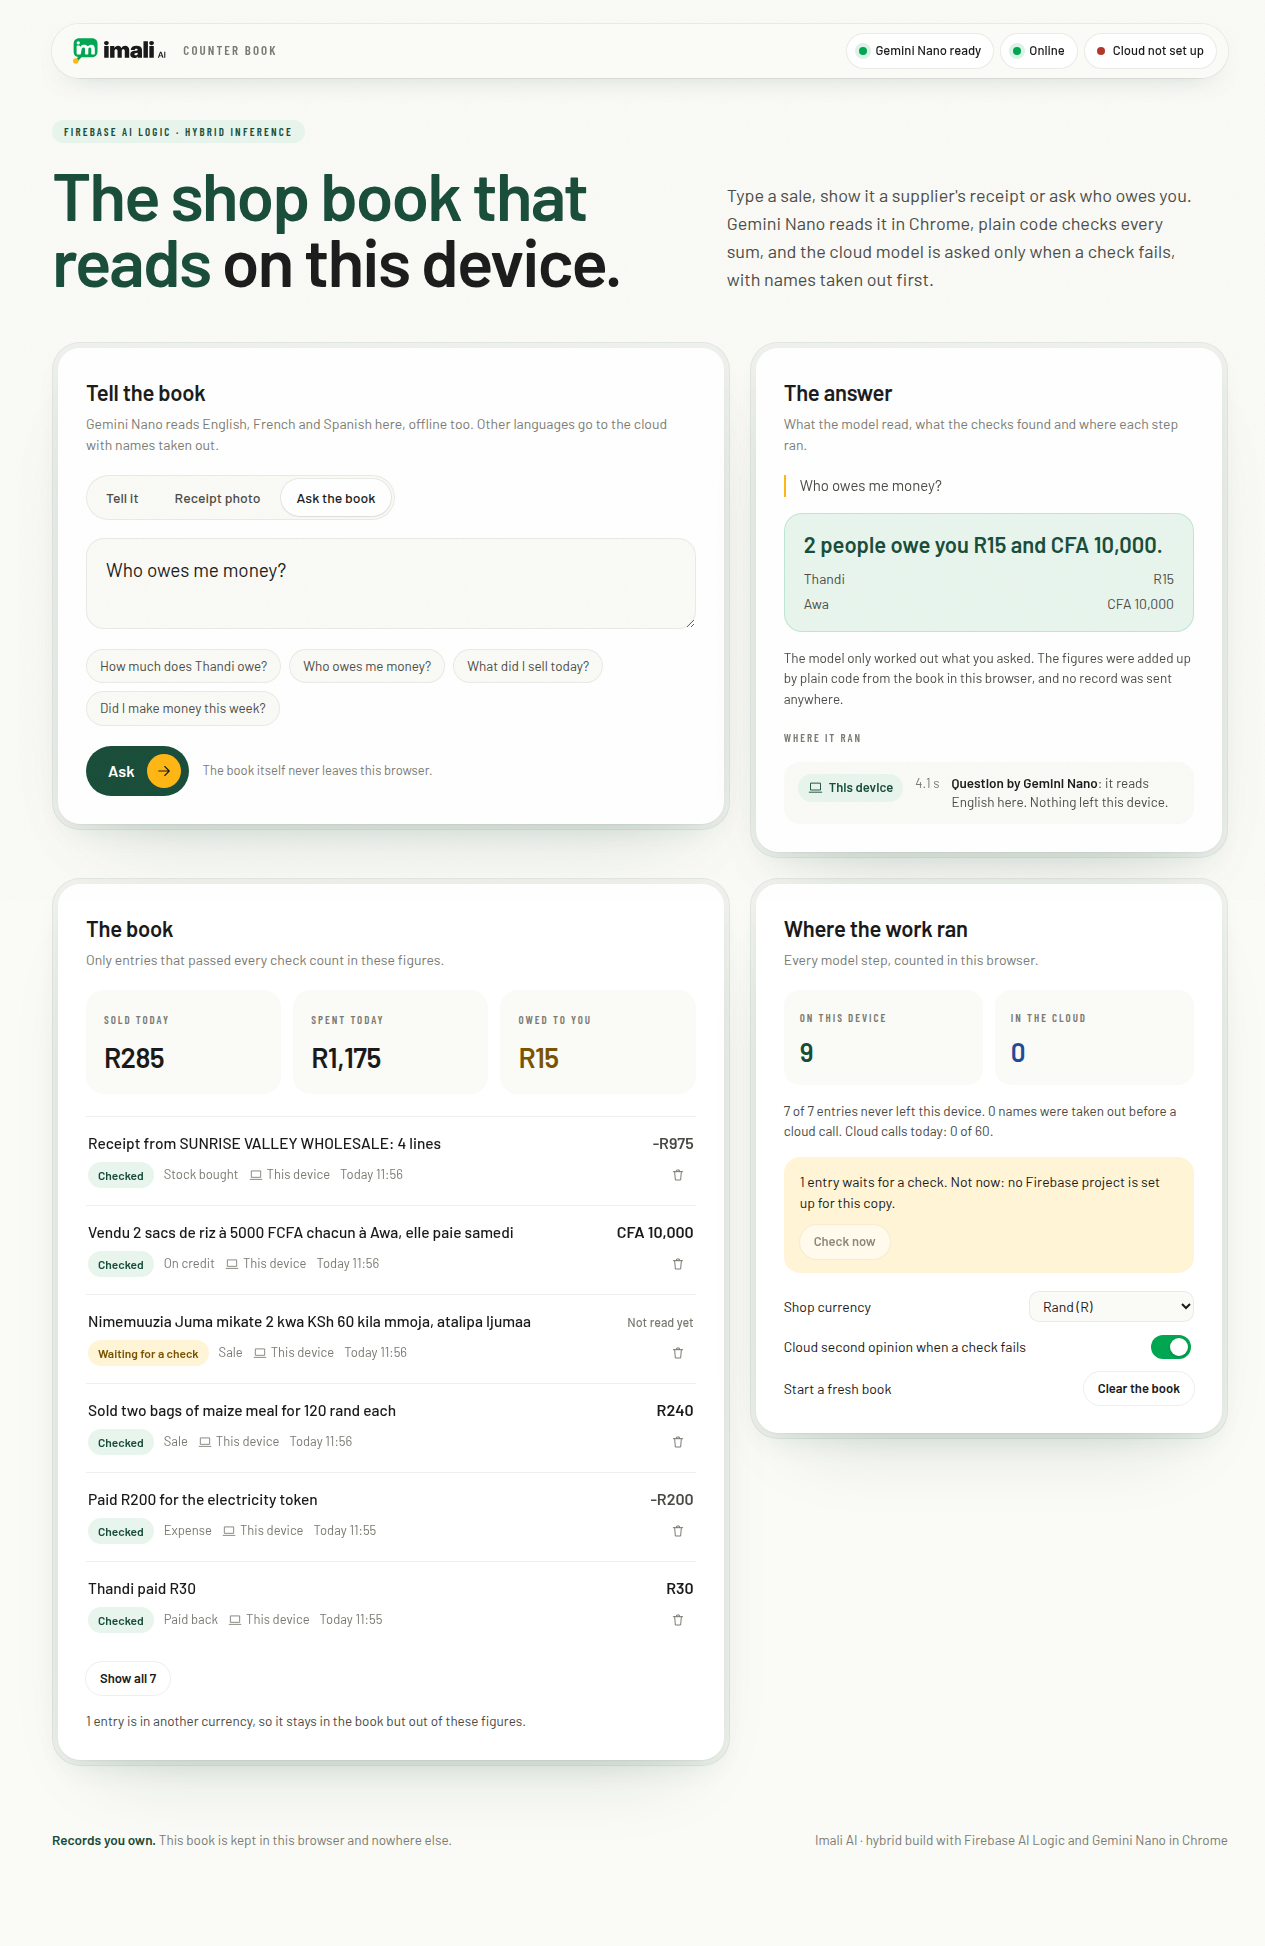
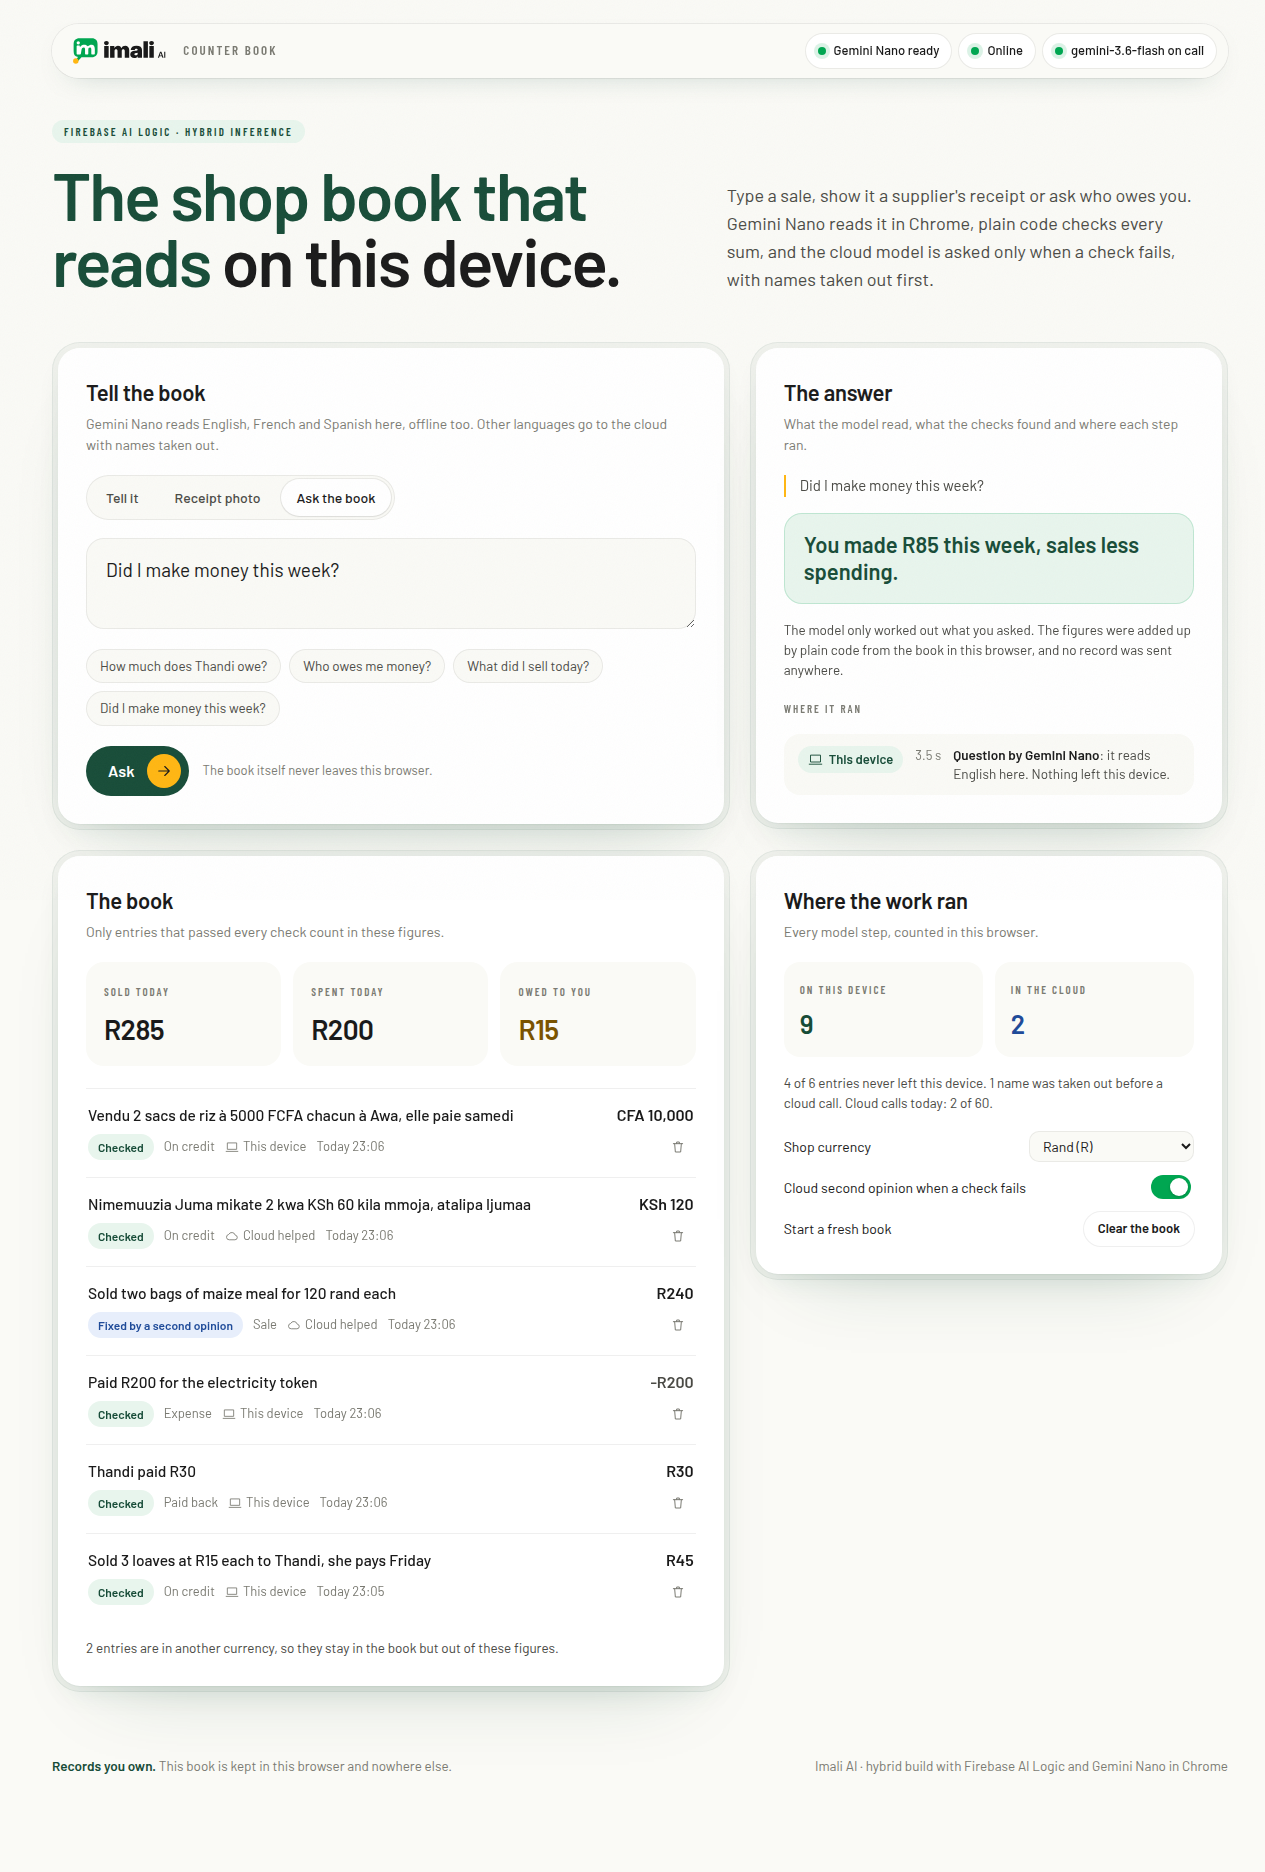
README: the hosted copy, its run and screenshots, and what was built in the contest period first
Links imali-ai-hybrid.web.app, adds the hosted run of 12 Nov 23:06 KST
with App Check tokens from reCAPTCHA Enterprise, swaps in screenshots of
the hosted copy (1280 and 390 px), moves the contest-period section up,
says the code (not the reused logo and fonts) was written from 12 Nov, and
ends on the Ebenworks stamp. Pre-show review sc-20261112-231704-fc50: PASS.

diff --git a/README.md b/README.md
@@ -1,16 +1,22 @@
 # Imali AI book: the shop book that reads on the device
 
-Imali AI runs sales, stock and books on WhatsApp for shop owners and merchants, along with their suppliers, their funders and groups of companies. This repository is a Chrome web app built for the #BuildHybridAI hackathon. It is a counter book that a shop owner writes in plain words. Gemini Nano reads each entry on the device through Firebase AI Logic, plain code checks every reading before it counts in the totals, and a cloud Gemini model is asked only when the device's reading fails a check. Customers' names are taken out before any words leave the device, and an entry made offline waits for the connection.
+Imali AI runs sales, stock and books on WhatsApp for shop owners and merchants, along with their suppliers, their funders and groups of companies. This repository is a Chrome web app built for the #BuildHybridAI hackathon. It is a counter book that a shop owner writes in plain words. Gemini Nano reads each entry on the device through Firebase AI Logic, plain code checks every reading before it counts in the totals, and a cloud Gemini model is asked when the device's reading fails a check, when Gemini Nano does not read the language, or when the device has no Nano. Customers' names are taken out before any words leave the device, and an entry made offline waits for the connection.
 
-This README is for the hackathon's judges and for developers who want to run the app. The first sections say what it does and why; the code names are in the Firebase table and the run instructions.
+This README is for the hackathon's judges and for developers who want to run the app.
 
-![The book after six entries, a receipt photo and one question](docs/screenshots/book-1280.png)
+Try it at [imali-ai-hybrid.web.app](https://imali-ai-hybrid.web.app) in Chrome on a computer. [Use it](#use-it) says what Chrome needs for Gemini Nano.
+
+![The hosted copy after the six entries and four questions: four entries read on the device, two with help from the cloud, and the answer to "Did I make money this week?"](docs/screenshots/book-1280.png)
 
 The same screen at phone width is in [docs/screenshots/book-390.png](docs/screenshots/book-390.png).
 
+## What was built during the hackathon
+
+All the code in this repository was written from 12 November 2026, inside the contest period. Imali AI itself was built, tested and piloted with users from April 2026, and launched on 21 October 2026, as a WhatsApp product that runs its model calls in the cloud. None of that product's code is in this repository. From it we carried over the brand: the Imali AI logo, and the Barlow font files, which are third-party fonts under their own licence. We also reused the product idea of a book kept from plain words and what we learned about how shop owners write their entries. The on-device reading, the checks, the name removal, the routing between Nano and the cloud, the offline queue, the question answering and this interface are new.
+
 ## Why a shop book needs both models
 
-A small shop's book holds its customers' names and what each one owes. Many owners still keep it in a paper exercise book. A cloud app would cost them data and stop working where the signal drops, and it would send their customers' names to a server. A model that runs on the device avoids those costs. But a small model also makes mistakes with money, and a book that is wrong one time in ten is worse than paper.
+A shop's book holds its customers' names and what each one owes, and many owners still keep it in a paper exercise book. A model on the device reads an entry where the signal drops, uses no data and keeps those names on the device. But a small model also makes mistakes with money, and a book that is often wrong is worse than paper.
 
 We saw this on the first day. On 12 November 2026 Gemini Nano read "Sold two bags of maize meal for 120 rand each" as two bags at R60 each, a total of R120 instead of R240. The arithmetic of its answer was consistent, so a sum check alone would have passed it. The words said "each", and the book's checks caught it there.
 
@@ -19,8 +25,8 @@ So this book never trusts a model with arithmetic, and it never sends the whole 
 ## How an entry is read
 
 1. Gemini Nano reads it on the device. The app asks Firebase AI Logic to use the model on the device only, when Chrome's language detector names a language Nano reads or is unsure, as it often is on a short message. For a receipt photo the app lets Firebase choose: Nano when the device has it, the cloud model when it does not. A supplier's receipt carries the supplier's printed details and no customer's name, so the photo goes as it is. Both models are given the same form to fill in (the kind of entry, each item's quantity, price and line total, the total, the currency, the person and when they will pay), so their answers can be checked the same way.
-2. Code checks the reading. The checks run in microseconds and work offline. Each line's quantity times price must equal its line total, and the lines must add up to the total. A price the words mark with "each", "per", "@", "chacun" or "kila mmoja" must be a price for one item. Every number must come from the words or follow from them, and the currency must match the one the words name. A sale the words say is paid later must be recorded on credit, and a debt or payment must name the person.
-3. The cloud gives a second opinion only when needed. If a check fails, or Chrome is sure the words are in a language Nano does not read here (Kiswahili and isiZulu in our tests), the words go to the cloud model. Before they leave the device, names and phone numbers are swapped for placeholders such as `[PERSON_1]`, and swapped back when the answer returns. The second opinion is told which checks failed, and its answer has to pass the same checks. If it does not, the entry is marked "Needs you" and stays out of the totals. If the cloud model asked first gives no usable answer within 60 seconds (120 for a photo), the other cloud model is asked once, the two calls together never take more than 90 seconds (180 for a photo), and the step says so. We added this on 12 November, when gemini-3.8-flash on the free tier answered "high demand" or nothing for three minutes. An answer that still holds a placeholder instead of a name is not counted either.
+2. Code checks the reading. The checks are plain code on the device, so they need no model call and work offline. Each line's quantity times price must equal its line total, and the lines must add up to the total. A price the words mark with "each", "per", "@", "chacun" or "kila mmoja" must be a price for one item. Every number must come from the words or follow from them, and the currency must match the one the words name. A sale the words say is paid later must be recorded on credit, and a debt or payment must name the person.
+3. The cloud gives a second opinion only when needed. If a check fails, or Chrome is sure the words are in a language Nano does not read here (Kiswahili and isiZulu in our tests), the words go to the cloud model. Before they leave the device, names and phone numbers are swapped for placeholders such as `[PERSON_1]`, and swapped back when the answer returns. The second opinion is told which checks failed, and its answer has to pass the same checks. If it does not, the entry is marked "Needs you" and stays out of the totals. If the cloud model asked first gives no usable answer within 60 seconds (120 for a photo), the other cloud model is asked once, the two calls together never take more than 90 seconds (180 for a photo), and the step says so. An answer that still holds a placeholder instead of a name is not counted either.
 4. Offline, the entry waits. When the cloud cannot be reached, the device's reading is kept with the reason it waits, and it stays out of the totals. When Chrome reports the connection is back, the waiting entries go for their second opinion.
 5. Questions are answered by code. "How much does Thandi owe?" goes to Nano, which turns it into a small query: what to work out, for whom and for which period. Code adds up the figures from the book, which is stored in the browser on the device. When the cloud has to read a question, it gets the question alone, with names removed, and never a record.
 
@@ -47,7 +53,7 @@ The device runs were on 12 November 2026, in Chrome 157 on a Linux machine with 
 | Paid R200 for the electricity token | Expense, R200. Checked, in 7 s. |
 | Sold two bags of maize meal for 120 rand each | 2 at R60 in one run: the "each" check failed, so it waited for the second opinion. Right (R240) in a later run. 7 s. |
 | Vendu 2 sacs de riz à 5000 FCFA chacun à Awa, elle paie samedi | On credit, CFA 10,000, Awa, samedi. Checked, in 12 s. |
-| The sample receipt photo (four lines) | Stock bought, R975, every line right. Checked, in 20 s. |
+| The receipt photo (four lines) | Stock bought, R975, every line right. Checked, in 20 s. |
 | How much does Thandi owe? | Thandi owes you R15. 4 s. |
 | Who owes me money? | 2 people owe you R15 and CFA 10,000. 4 s. |
 
@@ -60,7 +66,7 @@ The cloud steps ran the same evening against the Firebase project, with App Chec
 | The same second opinion with gemini-3.8-flash asked first | No answer within 60 s, so gemini-3.5-flash-lite was asked and gave R240, 67 s in all. That is why gemini-3.6-flash is the default. |
 | A call to AI Logic without an App Check token | Refused with 401, "Firebase App Check token is invalid". |
 
-In a second run of the six examples that evening, Gemini Nano read all five it can read correctly on the device, the maize meal included, and only the Kiswahili entry left the device. Its answers vary from run to run, which is why every reading goes through the checks.
+In a second run of the six entries that evening, Gemini Nano read all five it can read correctly on the device, the maize meal included, and only the Kiswahili entry left the device. On the hosted copy at 23:06 KST, with App Check tokens from reCAPTCHA Enterprise, all six were checked again: Nano read four on the device in 7.7 to 17 s, its maize meal reading failed a check once more and a gemini-3.6-flash second opinion fixed it in 9.3 s, and gemini-3.5-flash-lite read the Kiswahili entry, Juma's name removed, in 10 s. The four questions took 3.5 to 5.0 s on the device. Nano's answers vary from run to run, which is why every reading goes through the checks.
 
 ## Run it
 
@@ -80,17 +86,15 @@ On your own machine, `npm run dev` uses App Check's debug provider: copy the deb
 
 ## Use it
 
-1. Open it in Chrome on a computer: Windows 10 or 11, macOS 13 or later, Linux, or a Chromebook Plus, with at least 22 GB free disk and either a graphics card with more than 4 GB of memory or 16 GB of RAM and 4 processor cores ([Chrome's requirements](https://developer.chrome.com/docs/ai/get-started)).
+1. Open [imali-ai-hybrid.web.app](https://imali-ai-hybrid.web.app) in Chrome on a computer: Windows 10 or 11, macOS 13 or later, Linux, or a Chromebook Plus, with at least 22 GB free disk and either a graphics card with more than 4 GB of memory or 16 GB of RAM and 4 processor cores ([Chrome's requirements](https://developer.chrome.com/docs/ai/get-started)).
 2. If the header says Gemini Nano is not downloaded, click **Get it**. The download runs once and then works offline. Without Nano, every reading goes to the cloud with names removed, and the app still works.
-3. Click the example entries in order, then **Receipt photo** and **Use a sample receipt**, then **Ask the book**.
-4. To see the offline queue, turn the network off in Chrome's developer tools (Network, Offline), add the maize meal example, then turn it back on.
-
-## What was built during the hackathon
-
-Every file in this repository was written from 12 November 2026, inside the contest period. Imali AI itself was built, tested and piloted with users from April 2026, and launched on 21 October 2026, as a WhatsApp product that runs its model calls in the cloud. None of that product's code is in this repository. From it we reused the brand (the logo and the Barlow font files), the product idea of a book kept from plain words, and what we learned about how shop owners write their entries. The on-device reading, the checks, the name removal, the routing between Nano and the cloud, the offline queue, the question answering and this interface are new.
+3. Click the six entries under the box in order, then **Receipt photo** and **Try a supplier's receipt**, then **Ask the book** and its questions.
+4. To see the offline queue, turn the network off in Chrome's developer tools (Network, Offline), add the maize meal entry, then turn it back on.
 
 ## Licence
 
 The code is under the Apache License 2.0 (`LICENSE`). The Barlow fonts are under the SIL Open Font License 1.1 (`public/fonts/OFL.txt`). The Imali AI name and logo are not covered by either licence.
 
 Records you own.
+
+An Ebenworks product.
